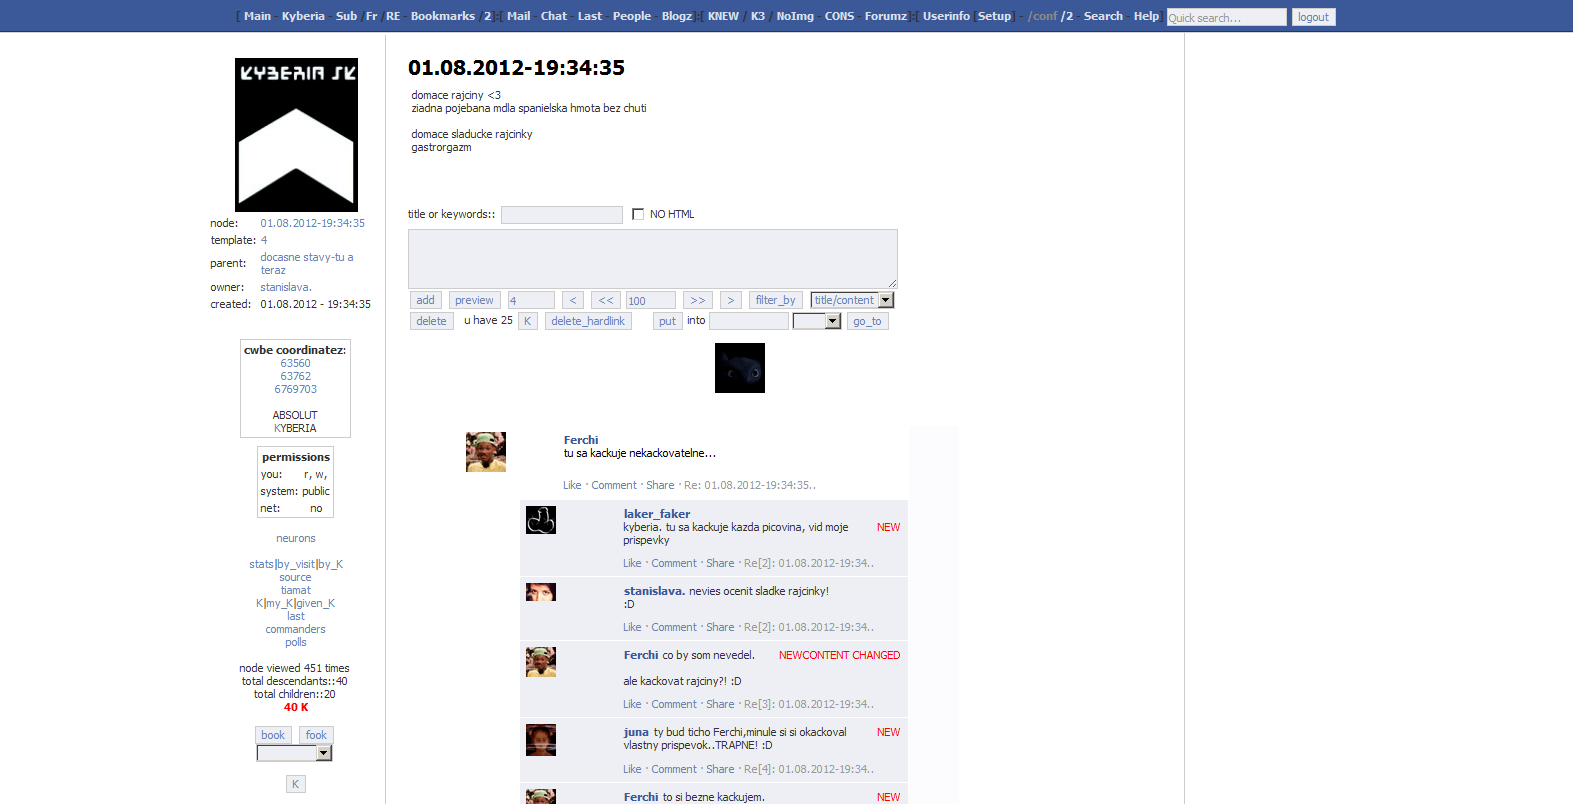
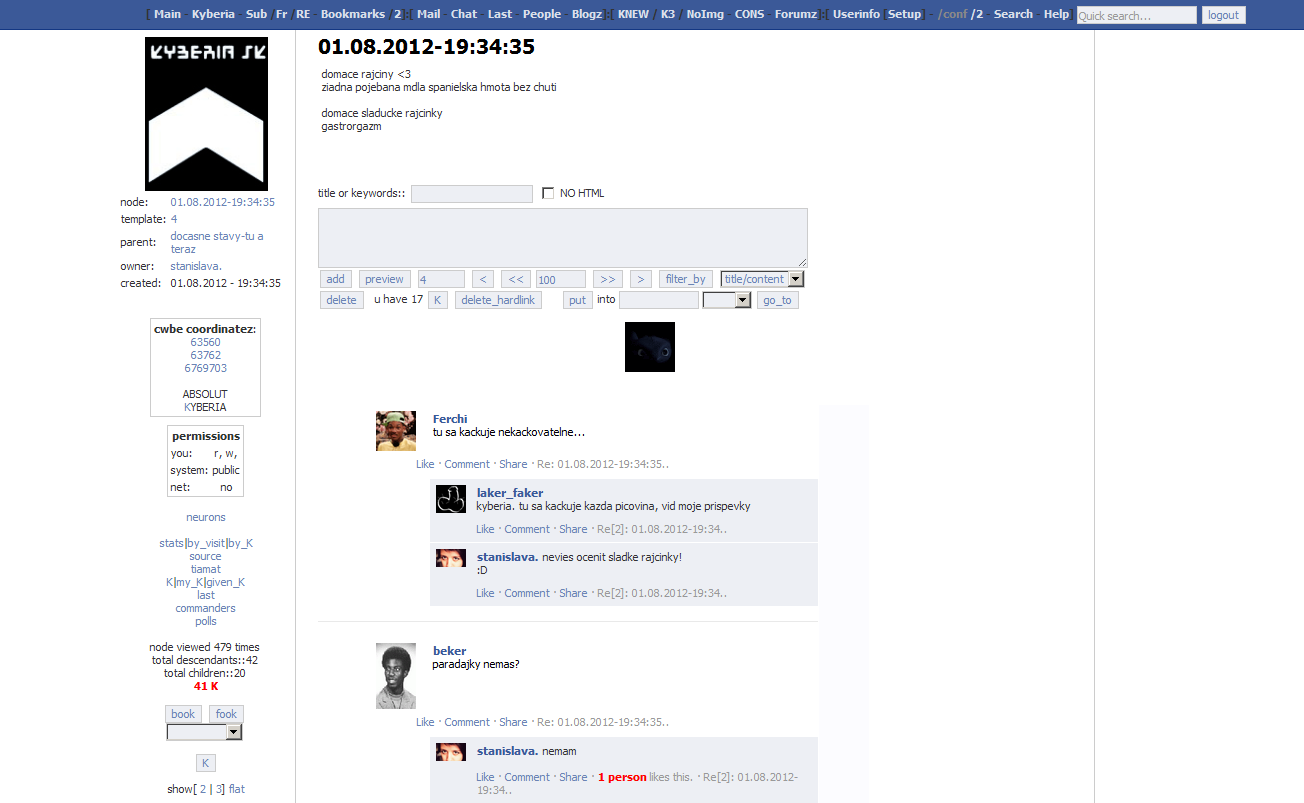
fixed padding, also in screenshots

Changed region(s): [[0.0, 0.0, 1.0, 0.9963], [0.2761, 0.7783, 0.6135, 1.0], [0.2761, 0.4981, 0.5828, 0.7472]]

diff --git a/kyberia_extensions/kyberia_facebookizer.user.js b/kyberia_extensions/kyberia_facebookizer.user.js
@@ -261,7 +261,7 @@ function convertToFB()
 	.qq.node_header_k				{ color: #6B84B4; float: none; text-transform: none; font-weight: normal; }\
 	.qq.node_header_title_nodename	{ color: #999; margin-top: 10px; display: block; float: none; font-size: 11px; }\
 	.qq.node_login					{ color: #3B5998; font-weight: bold; padding: 0; padding-right: 5px; }\
-	.qq.node_body					{ padding-left: 60px; }\
+	.qq.node_body					{ padding-left: 45px; }\
 	\
 	/* ----------------------------------       facebook        ---------------------------------- */ \
 	.t2						{ height: 35px; background: #d3d3d3; }\
